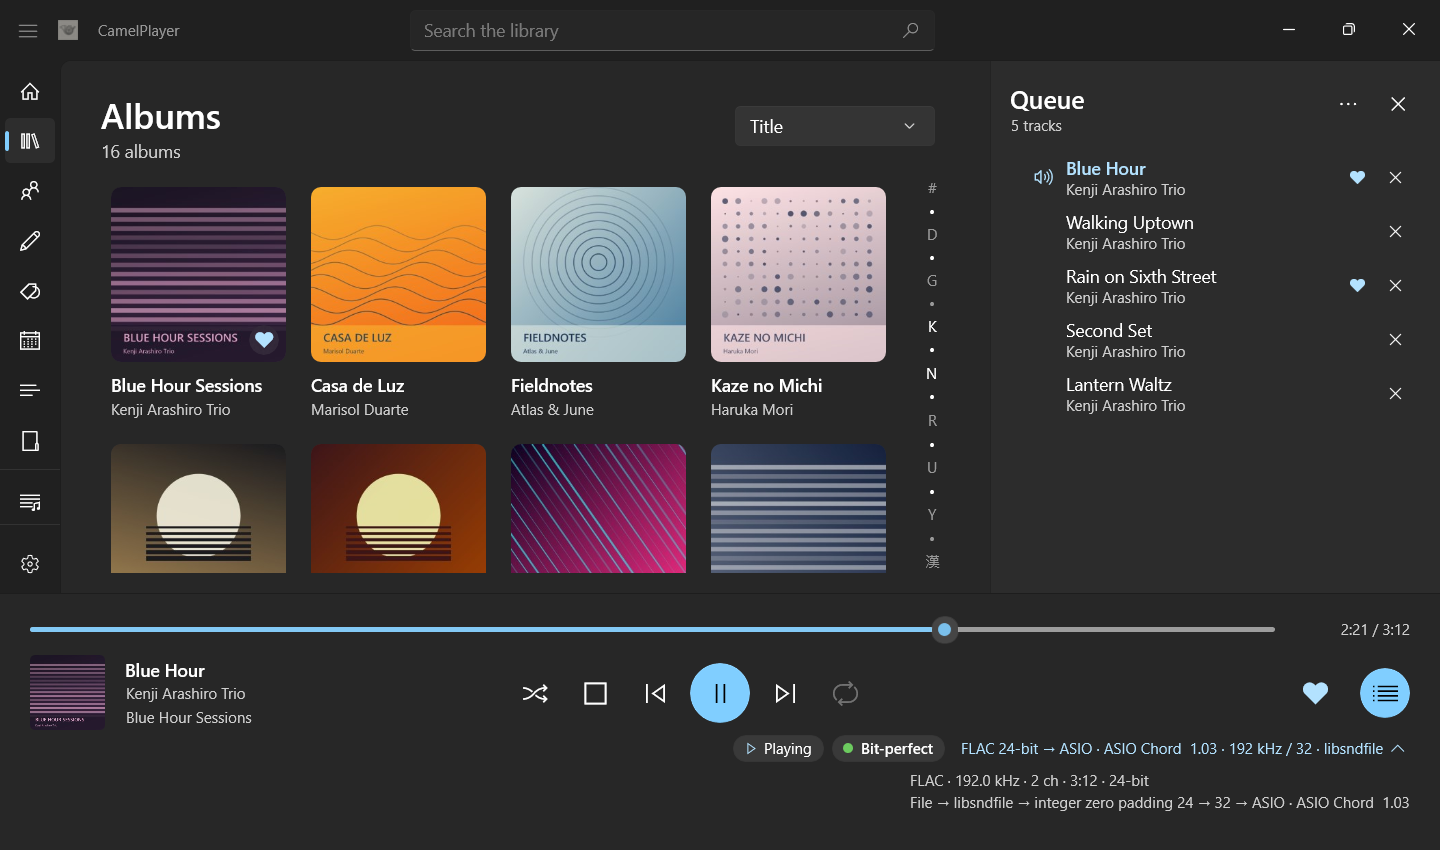
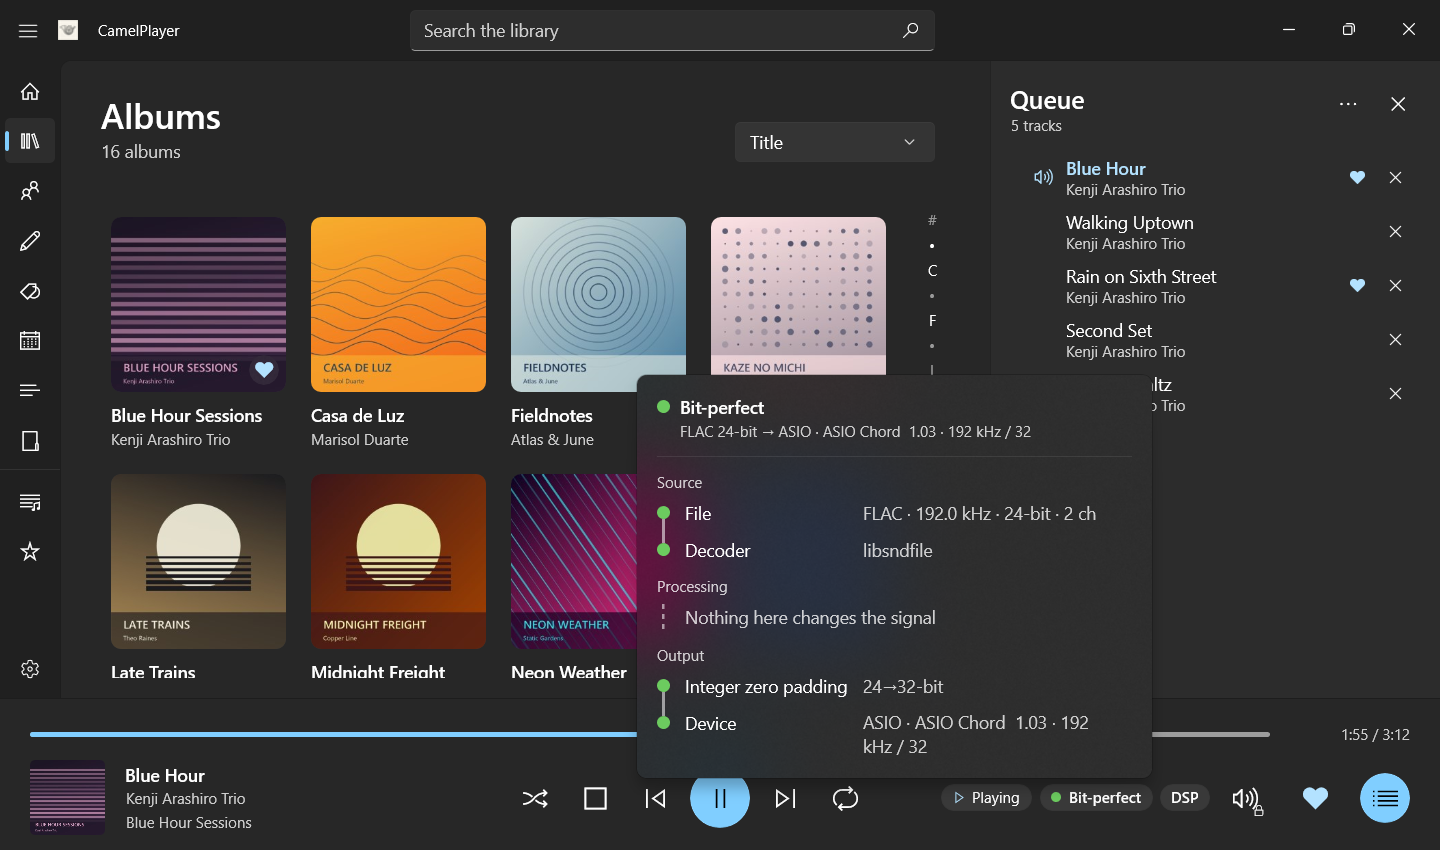
Prepare the 0.2.0 release
The version is 0.2.0 and the changelog's unreleased section becomes
0.2.0. Its upgrade note says that the first start moves the library to
schema 18 and keeps the old one as library.db.v17.bak, how to go back
to 0.1.0, which refuses the newer library, and which settings 0.1.0
drops.

A full Release run passed all 715 C++ and 88 Rust tests, all 97
hardware tests passed on the Chord DAVE and the built-in Cirrus codec,
and the DSP chain, crossfade, native DSD bypass and Discord presence
were checked in the app. VALIDATION.md records these runs and what was
not repeated; the README carries the new test counts.

The README screenshots are retaken from the demo library to show the
two-row player bar, the signal path panel and the volume button.

diff --git a/VALIDATION.md b/VALIDATION.md
@@ -1,10 +1,12 @@
 # Validation
 
-This file records how CamelPlayer 0.1.0 was checked beyond its ordinary automated tests: on audio hardware, on a NAS and for speed. Each section names when its run took place; later changes may have moved the numbers. [README.md](README.md#testing) explains how to run the tests.
+This file records how CamelPlayer 0.1.0 and 0.2.0 were checked beyond their ordinary automated tests: on audio hardware, in the app, on a NAS and for speed. Each section names when its run took place; later changes may have moved the numbers. The library performance and NAS runs were not repeated for 0.2.0. [README.md](README.md#testing) explains how to run the tests.
 
 ## Automated tests
 
-On 2026-10-31 a full Release run passed all 661 enabled C++ tests, including the 100k-track search latency target, and all 47 Rust Engine tests. 112 tests are disabled in ordinary runs because they play audio on named devices or scan a NAS.
+On 2026-11-01, for 0.2.0, a full Release run passed all 715 enabled C++ tests, including the 100k-track search latency target, and all 88 Rust Engine tests. A full Debug run passed 714 of 715: unoptimized, the latency test measured a first-page p95 of 102.9 ms and a broad-suggestion p95 of 483 ms against its 100 ms target for optimized builds. 112 tests are disabled in ordinary runs because they play audio on named devices or scan a NAS.
+
+On 2026-10-31, for 0.1.0, a full Release run passed all 661 enabled C++ tests, including the latency target, and all 47 Rust Engine tests.
 
 Earlier targeted runs:
 
@@ -24,7 +26,7 @@ What the decoding tests check:
 
 ## Hardware
 
-On 2026-10-31, before the release, all 97 hardware tests passed again in 196 seconds on the same two devices: playback on every backend with each FLAC decoder, the other formats, DSD rates and DSD switching, device fallback, the output parameters and the Server's playback path.
+On 2026-11-01, before 0.2.0, all 97 hardware tests passed again in 195 seconds on the same two devices, as they had on 2026-10-31 before 0.1.0 in 196 seconds: playback on every backend with each FLAC decoder, the other formats, DSD rates and DSD switching, device fallback, the output parameters and the Server's playback path.
 
 The hardware runs of 2026-10-20 and 2026-10-21 played through the Engine and Server APIs on a Chord DAVE (WASAPI, ASIO and Kernel Streaming) and a built-in Cirrus codec (WASAPI and Kernel Streaming).
 
@@ -33,6 +35,15 @@ The hardware runs of 2026-10-20 and 2026-10-21 played through the Engine and Ser
 - Kernel Streaming has no native DSD, because Windows defines no Kernel Streaming DSD format, so it plays DSD as DoP or, when allowed, as PCM.
 - The Cirrus codec takes 24-in-32-bit samples up to 192 kHz, a container the DAVE refuses. It has no DSD mode, so it receives DSD only converted to PCM, never DoP or native DSD.
 - A separate DAVE run of the output parameters (polling buffer, MMCSS, fixed sample rate, silence after a DoP-to-PCM switch and release after a pause) passed 5/5.
+
+## In the app
+
+Checked by hand on 2026-11-01 in a Release build, for 0.2.0:
+
+- On the Chord DAVE, with ReplayGain, the parametric EQ, software volume, a 3-second crossfade and TPDF dither to 24 bits all on, the signal path listed every stage: ReplayGain −8.9 dB, the EQ, volume −6.0 dB, the crossfade and the dither.
+- Skipping to the next track crossfaded into it without reopening the device.
+- A DSD256 file played as native DSD showed Bit-perfect with nothing changing the signal, and noted that native DSD bypasses the DSP.
+- With Discord Rich Presence and its cover on, the owner's Discord profile showed the playing title, artists, album, progress and the Bit-perfect state over the file's own cover, served through the cloudflared tunnel; the friends list showed the title, and pausing cleared the activity. cloudflared was downloaded on first use, checked against its pinned SHA-256 before it ran, and ended with CamelPlayer.
 
 ## Library performance
 

diff --git a/README.md b/README.md
@@ -138,7 +138,7 @@ Each build also writes `build/compile_commands.json`, so clangd (for example in 
 
 ## Testing
 
-`.\build.cmd -Test` runs the ordinary C++ tests; `cargo test --workspace` in `rust/` runs the Rust Engine tests. On 2026-10-31 a full Release run passed all 661 enabled C++ tests, including the 100k-track search latency target, and all 47 Rust tests.
+`.\build.cmd -Test` runs the ordinary C++ tests; `cargo test --workspace` in `rust/` runs the Rust Engine tests. On 2026-11-01 a full Release run passed all 715 enabled C++ tests, including the 100k-track search latency target, and all 88 Rust tests.
 
 The 112 disabled tests play audio on named devices or scan a NAS, and need local files under `testdata/` that are not distributed. Lower the volume, then run the hardware tests explicitly after building:
 
@@ -193,6 +193,6 @@ powershell -NoProfile -ExecutionPolicy Bypass -File msbuild/collect-licenses.ps1
 
 Local planning documents, development probes, private test music, downloaded packages, build outputs and caches are kept out of Git, so GitHub's source archive of a release tag holds only the committed files, not the dependencies the package managers download.
 
-CamelPlayer is licensed under the [Mozilla Public License 2.0](LICENSE). Versions published before the change to MPL-2.0 remain available under the GNU GPL version 3. Third-party components keep their own licenses; the root license does not relicense Microsoft binaries or replace LGPL, MPL, MIT, BSD or other notices. MPL-2.0 allows CamelPlayer to be combined with the Microsoft-licensed Windows App SDK and WinUI binaries, and no Steinberg ASIO SDK code remains, so no third-party GPL code blocks a binary release. Before the 0.1.0 release every dependency's version and license in the notices was checked against the inventory.
+CamelPlayer is licensed under the [Mozilla Public License 2.0](LICENSE). Versions published before the change to MPL-2.0 remain available under the GNU GPL version 3. Third-party components keep their own licenses; the root license does not relicense Microsoft binaries or replace LGPL, MPL, MIT, BSD or other notices. MPL-2.0 allows CamelPlayer to be combined with the Microsoft-licensed Windows App SDK and WinUI binaries, and no Steinberg ASIO SDK code remains, so no third-party GPL code blocks a binary release. Before the 0.1.0 and 0.2.0 releases every dependency's version and license in the notices was checked against the inventory.
 
 A binary release must come with access to the exact corresponding source, dependency changes and build information, and all required notices. Packaging also builds `CamelPlayer-<version>-win-x64-third-party-source.zip` with the exact sources of the LGPL and MPL libraries linked into the program, and [THIRD-PARTY-NOTICES.md](THIRD-PARTY-NOTICES.md) explains how to rebuild against a modified one. `msbuild/check-licenses.ps1`, run by the build and packaging scripts, fails on a file without the MPL-2.0 header or a dependency missing from the notices. Packaging prepares the files; it does not establish permission to redistribute or publish a release.

diff --git a/CHANGELOG.md b/CHANGELOG.md
@@ -1,6 +1,8 @@
 # Changelog
 
-## Unreleased
+## 0.2.0
+
+Upgrading from 0.1.0: the first start moves the library to a newer format (schema 18) and keeps the old one as `library.db.v17.bak` in `%LOCALAPPDATA%\CamelPlayer`. 0.1.0 refuses the newer library, so to go back to it, close CamelPlayer, delete `library.db`, `library.db-wal` and `library.db-shm`, and rename `library.db.v17.bak` to `library.db`; what changed since the upgrade, such as plays, favorites and ReplayGain analysis, is lost that way. 0.1.0 reads the settings too, but keeps only those it knows, so the DSP, volume and Discord settings go when it saves.
 
 New features since 0.1.0:
 
